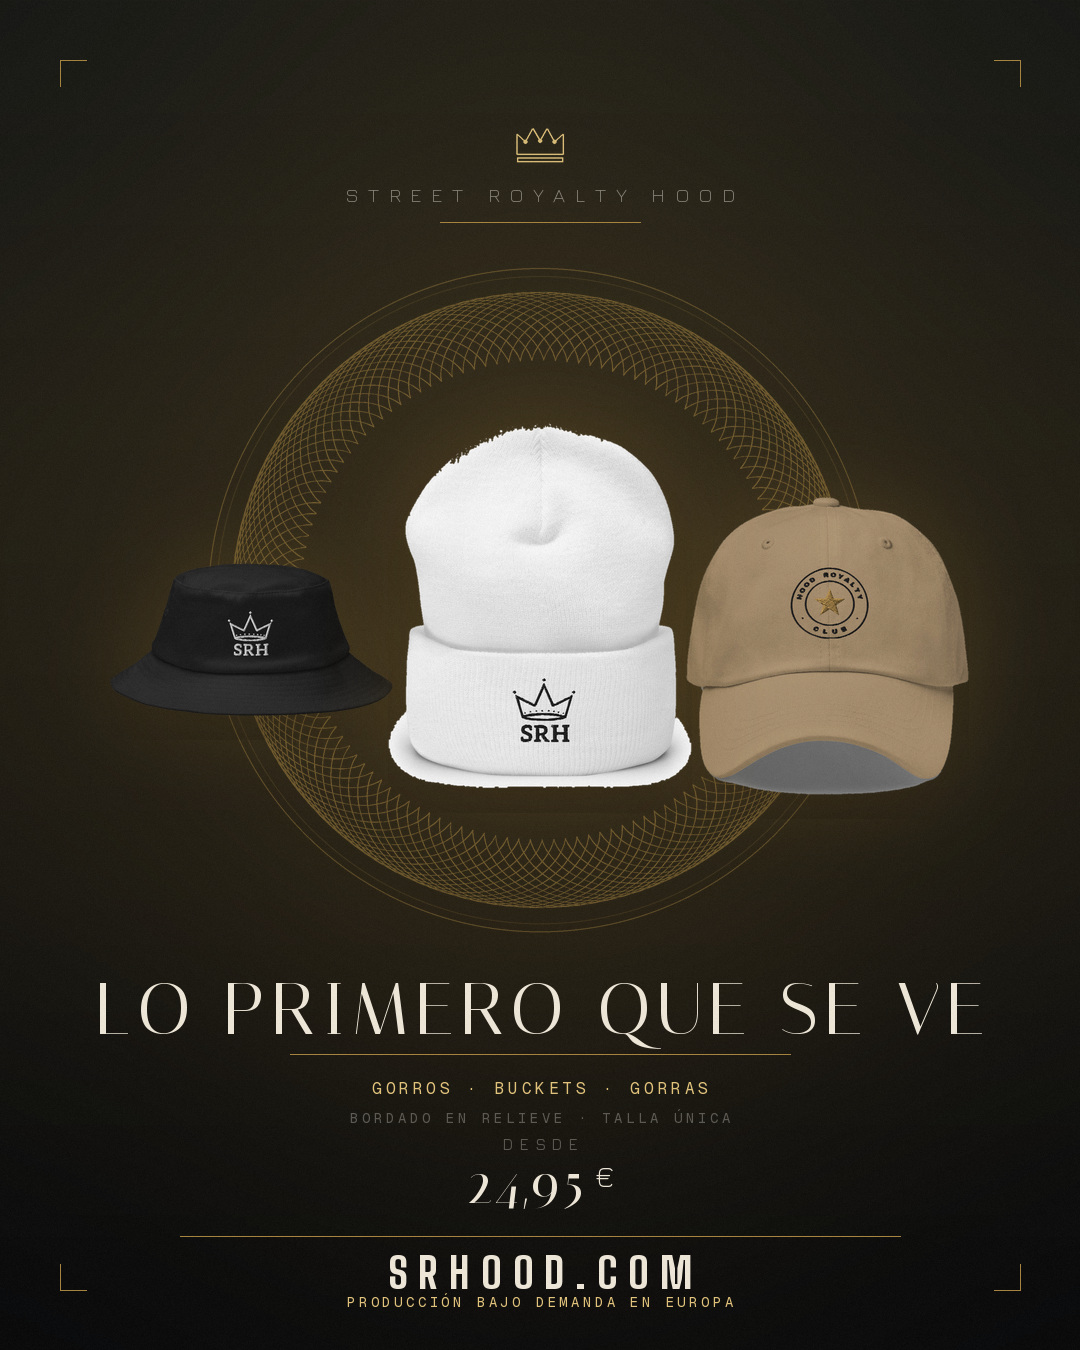
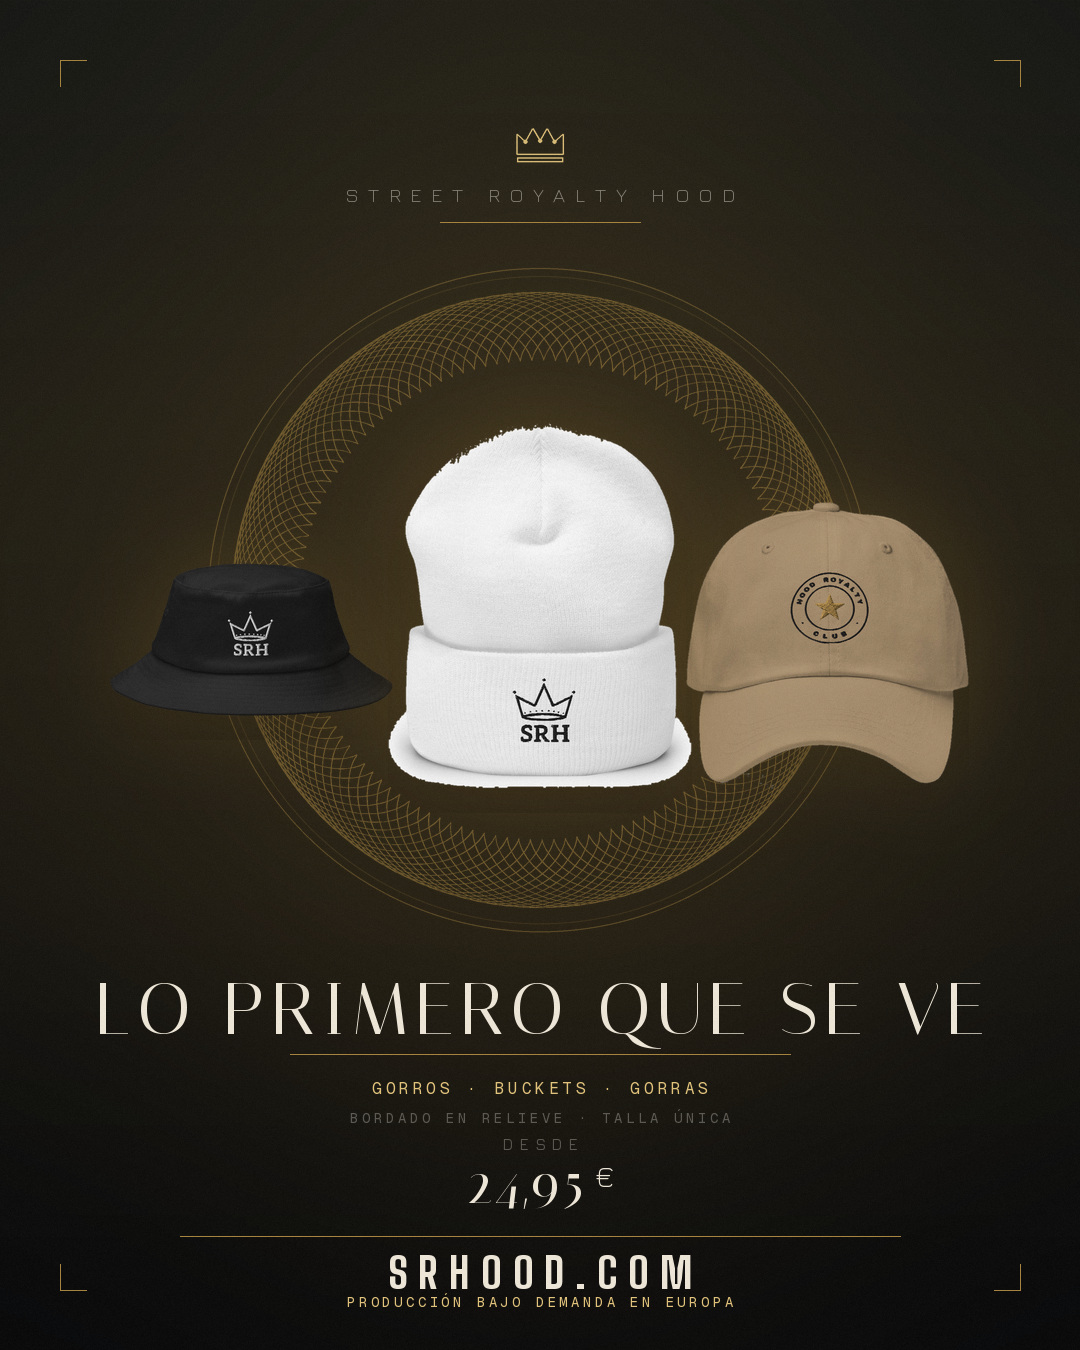
Fuera la franja gris bajo la visera de la gorra caqui
Era la sombra proyectada del mockup, y no se iba con ningún umbral de luminancia
porque esa sombra no es neutra: recoge el caqui de la gorra y sube a saturación
0,13, así que el recorte —que da por fondo lo claro y desaturado— nunca la
clasificaba como fondo. A lmin=100 desaparece y el recorte baja de 799 a 757 px.

El QA no lo elige solo porque mide la fuga contra una segmentación conservadora
que incluye la sombra, y por tanto lee «quitar la sombra» como «perder producto»
(0,16, por encima del corte). En un lote de cien esa prudencia es la correcta; en
un anuncio de tres piezas escogidas a mano el umbral se mira y se fija, así que
build_anuncio.py permite ahora sobreescribirlo por pieza.

Queda anotado como limitación conocida: los mockups con sombra tintada la
conservan. Se nota en las prendas claras y cálidas, no en las oscuras.

Claude-Session: https://claude.ai/code/session_01A1vehAdhX7FHFjRH5GsaDC

Changed region(s): [[0.6417, 0.3733, 0.8861, 0.5911], [0.6722, 0.3733, 0.7333, 0.4044]]

diff --git a/store-assets/ads/build_anuncio.py b/store-assets/ads/build_anuncio.py
@@ -31,10 +31,21 @@ import catalogo as C
 # Las tres piezas: un tono oscuro, uno claro y uno cálido. Con las tres claras el
 # grupo se empasta contra el campo, y con las tres oscuras hace falta tanto halo
 # que se come el grabado.
+#
+# `lmin`/`smax` sobreescriben el umbral que eligió el QA automático. Hace falta en la
+# gorra caqui: su mockup lleva una sombra proyectada que **no es neutra** —recoge el
+# caqui y sube a saturación 0,13—, así que ningún umbral de luminancia la trata como
+# fondo y quedaba pegada bajo la visera como una franja gris. A lmin=100 desaparece.
+#
+# El QA no lo elige solo porque su métrica de fuga compara contra una segmentación
+# conservadora que **incluye la sombra**, y por eso lee «quitar la sombra» como
+# «perder producto» (0,16, por encima del corte). En un lote de cien eso es la
+# decisión prudente; en un anuncio de tres piezas escogidas a mano, se mira y se fija.
 PIEZAS = [
     dict(handle="street-royalty-bucket-hat-corona-srh-negro-y-navy", escala=0.84, dx=-288, dy=40),
     dict(handle="street-royalty-gorro-corona-srh-blanco-y-gris-jaspeado", escala=0.90, dx=0, dy=6),
-    dict(handle="street-royalty-gorra-sello-club-caqui", escala=0.84, dx=288, dy=46),
+    dict(handle="street-royalty-gorra-sello-club-caqui", escala=0.84, dx=288, dy=46,
+         lmin=100),
 ]
 
 TITULAR = "LO PRIMERO QUE SE VE"
@@ -79,7 +90,9 @@ def anuncio(fmt, qa, acento=(120, 92, 40)):
     base = int(R * 1.02)
     for p in orden:
         q = qa[p["handle"]]["qa"]
-        sp = cutout(qa[p["handle"]]["file"], lmin=q["lmin"], smax=q.get("smax", 0.08))
+        sp = cutout(qa[p["handle"]]["file"],
+                    lmin=p.get("lmin", q["lmin"]),
+                    smax=p.get("smax", q.get("smax", 0.08)))
         ancho = int(base * p["escala"] * (W / 1080))
         place(img, sp, cx + int(p["dx"] * W / 1080), CY + p["dy"],
               target_w=ancho, halo=(42, 0.40, acento), shadow=(34, 0.44, 24))

diff --git a/store-assets/ads/ANUNCIO-GORROS.md b/store-assets/ads/ANUNCIO-GORROS.md
@@ -74,6 +74,26 @@ corona bordada en el vuelto, y una gorra caqui con el sello circular Hood Royalt
 Club. Streetwear español, producción bajo demanda.
 ```
 
+## La franja gris bajo la visera
+
+El primer montaje llevaba una franja gris pegada bajo la visera de la gorra caqui.
+Era la **sombra proyectada del mockup**, y no se iba con ningún umbral de
+luminancia por un motivo poco evidente: esa sombra **no es neutra**. Recoge el
+caqui de la propia gorra y sube a saturación 0,13, así que el recorte —que da por
+fondo lo que es claro *y* desaturado— nunca la clasificaba como fondo. A `lmin=100`
+desaparece, y el recorte pasa de 799 a 757 px de alto.
+
+El control de calidad automático no elige ese umbral solo, y conviene saber por qué:
+mide la fuga comparando contra una segmentación conservadora que **incluye la
+sombra**, así que lee «quitar la sombra» como «perder producto» (0,16, por encima
+del corte de 0,08) y se queda con el umbral que la conserva. En un lote de cien
+piezas esa prudencia es la correcta. En un anuncio de tres piezas escogidas a mano,
+se mira y se fija: el umbral va en la tabla `PIEZAS` de `build_anuncio.py`.
+
+**Queda como limitación conocida del recorte automático**: los mockups con sombra
+tintada la conservan. Se nota poco en prendas oscuras, porque la sombra se funde con
+el campo, y se nota en las claras y cálidas.
+
 ## Lo que este anuncio NO dice, y por qué
 
 - **Nada de envío.** El umbral de 39 € no se anuncia (decisión del 31/07), y
